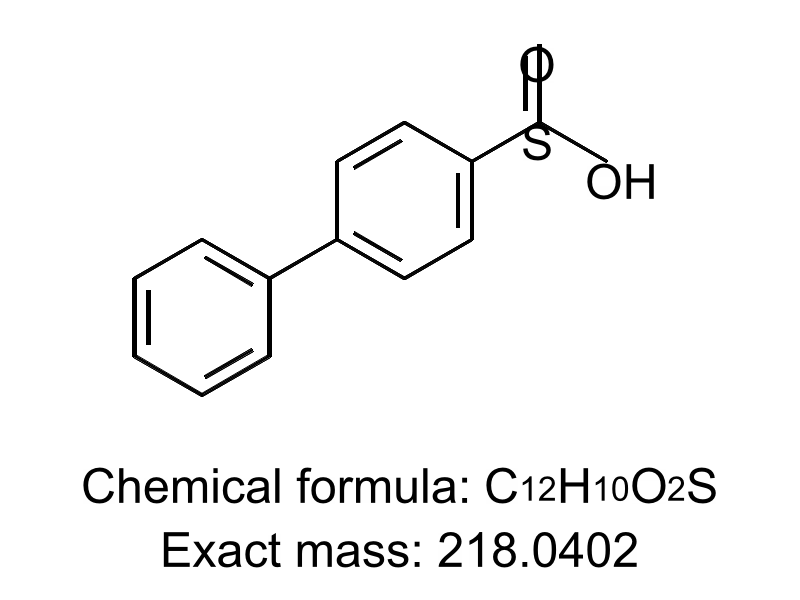
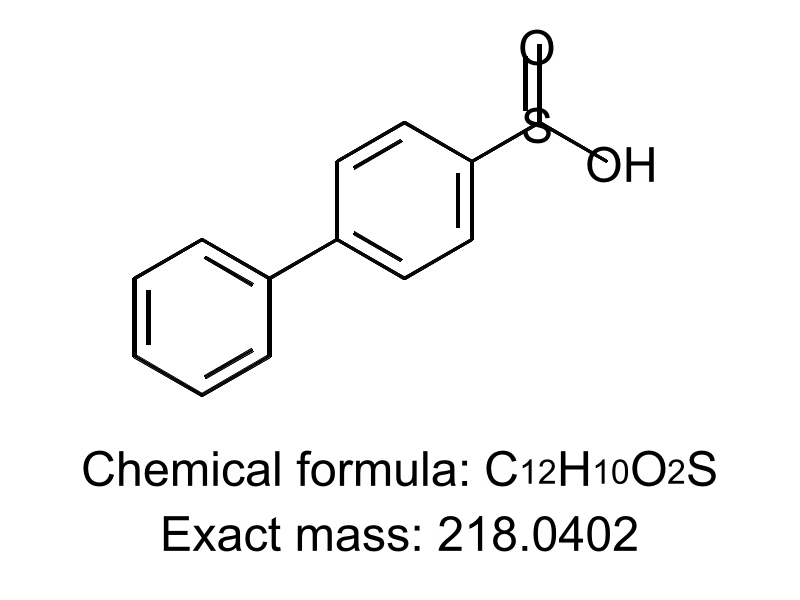
Fix atom label vertical alignment: use alphabetic baseline anchoring
CDX TextObject.position_2d.y stores the alphabetic baseline of the text,
not the em-box center. The previous dominant-baseline="middle" in SVG
placed the em-box center at y, shifting text ~0.4 x font_size too low
(~12.6px for a 32px label), misaligning atom symbols (S, O) from their
atoms.

Changes:
- text.rs: switch from LEFT_CENTER to LEFT_BOTTOM so VerticalAlign::Bottom
  is used as the anchor (semantically "baseline at y")
- svg_backend.rs: map VerticalAlign::Bottom to dominant-baseline="alphabetic"
  (canonical SVG baseline attribute, not the non-standard "baseline")
- image_png_backend.rs: for VerticalAlign::Bottom compute base_y as
  pos.y - font.ascent() so draw_text_mut receives the correct top-of-ascent
  y coordinate

Result: atom labels now align within ~1px of the atom center position.

diff --git a/src/renderer/text.rs b/src/renderer/text.rs
@@ -16,12 +16,14 @@ impl Drawable for TextObject {
         if let Some(ref pos) = self.position_2d {
             let screen_pos = ctx.cdx_to_screen(&pos.to_backend_point());
 
-            // Determine base alignment based on justification
+            // Determine base alignment based on justification.
+            // CDX position_2d.y is the alphabetic baseline (not the em-box center),
+            // so use VerticalAlign::Bottom which maps to dominant-baseline="alphabetic" in SVG.
             let base_align = match self.justification.or(self.caption_justification) {
-                Some(0) => Align2::LEFT_CENTER,   // Left
-                Some(1) => Align2::CENTER_CENTER, // Center
-                Some(2) => Align2::RIGHT_CENTER,  // Right
-                _ => Align2::LEFT_CENTER,         // Default to left
+                Some(0) => Align2::LEFT_BOTTOM,   // Left
+                Some(1) => Align2::CENTER_BOTTOM, // Center
+                Some(2) => Align2::RIGHT_BOTTOM,  // Right
+                _ => Align2::LEFT_BOTTOM,         // Default to left
             };
 
             // Get text content from CDXString

diff --git a/src/renderer/image_png_backend.rs b/src/renderer/image_png_backend.rs
@@ -362,11 +362,16 @@ impl AbstractPainter for ImagePngBackend {
             Align::Right => pos.x - total_width,
         };
 
-        // Calculate base Y position based on vertical alignment
+        // Calculate base Y position based on vertical alignment.
+        // VerticalAlign::Bottom means "alphabetic baseline at pos.y".
+        // draw_text_mut expects y = top of ascent, so subtract the font's ascent.
         let base_y = match align.y {
             VerticalAlign::Top => pos.y,
             VerticalAlign::Center => pos.y - first_span_height / 2.0,
-            VerticalAlign::Bottom => pos.y - first_span_height,
+            VerticalAlign::Bottom => {
+                let scale = PxScale::from(spans[0].font_size);
+                pos.y - self.font.as_scaled(scale).ascent()
+            }
         };
 
         // Draw each span

diff --git a/src/renderer/svg_backend.rs b/src/renderer/svg_backend.rs
@@ -231,7 +231,7 @@ impl AbstractPainter for SvgBackend {
         let dominant_baseline = match align.y {
             VerticalAlign::Top => "hanging",
             VerticalAlign::Center => "middle",
-            VerticalAlign::Bottom => "baseline",
+            VerticalAlign::Bottom => "alphabetic",
         };
 
         // Draw each span
